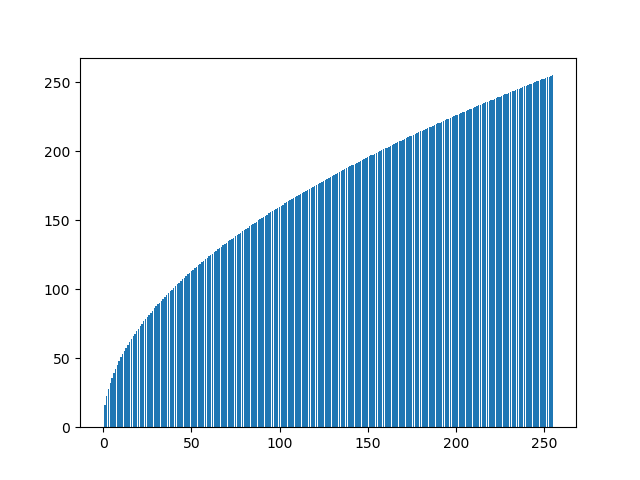
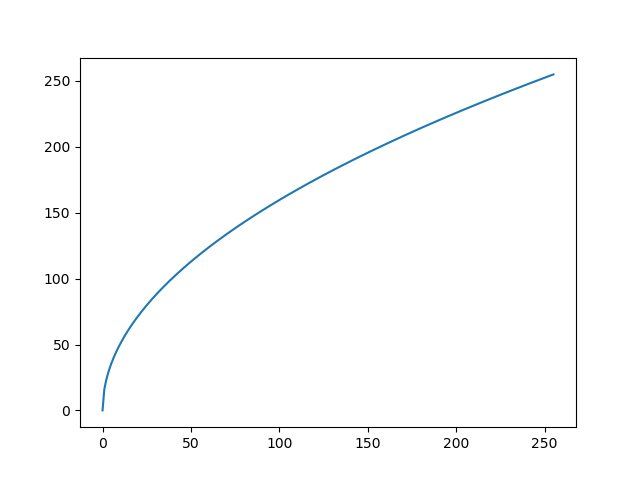
plotting equalized histogram

diff --git a/LUT.py b/LUT.py
@@ -142,13 +142,18 @@ plt.savefig('./outputs/histograma_equalizado.png')
 img_mod = heq[img]
 cv2.imwrite('./outputs/contraste_heq.png', img_mod)
 
+plt.clf()
+h = hist(cv2.imread('./outputs/contraste_heq.png', 0))
+plt.bar(range(len(h)), h)
+plt.savefig('./outputs/histograma_cont_heq.png')
+
 # correcao de gamma
 LUT = gamma_correc(0.5)
 img_mod = LUT[img]
 cv2.imwrite('./outputs/contraste_gamma_05.png', img_mod)
 
 plt.clf()
-plt.bar(range(len(LUT)), LUT)
+plt.plot(range(len(LUT)), LUT)
 plt.savefig('./outputs/gamma_05.png')
 
 LUT = gamma_correc(2)
@@ -156,5 +161,5 @@ img_mod = LUT[img]
 cv2.imwrite('./outputs/contraste_gamma_20.png', img_mod)
 
 plt.clf()
-plt.bar(range(len(LUT)), LUT)
+plt.plot(range(len(LUT)), LUT)
 plt.savefig('./outputs/gamma_20.png')
